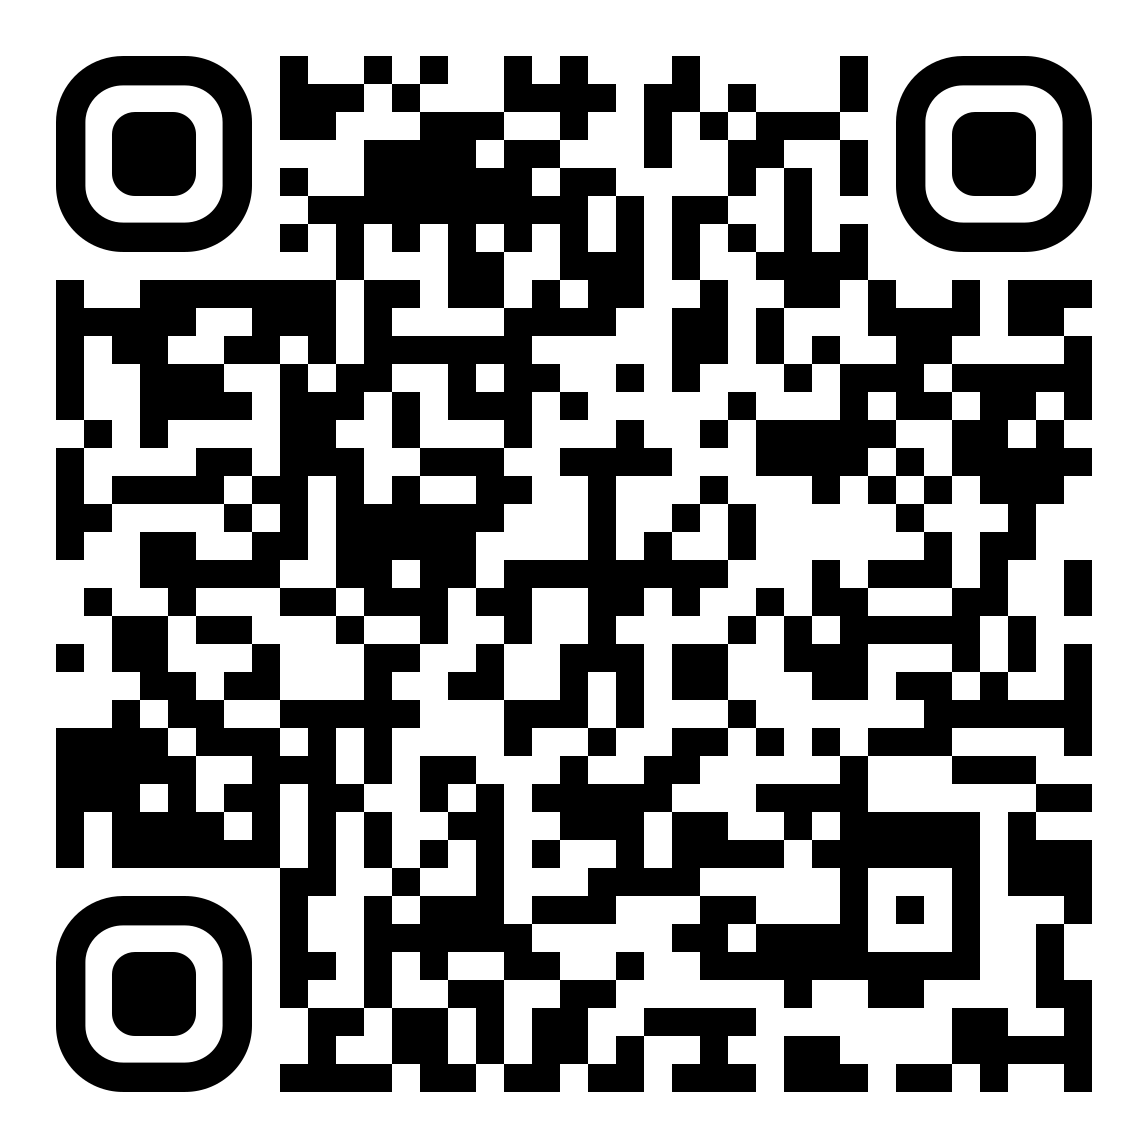
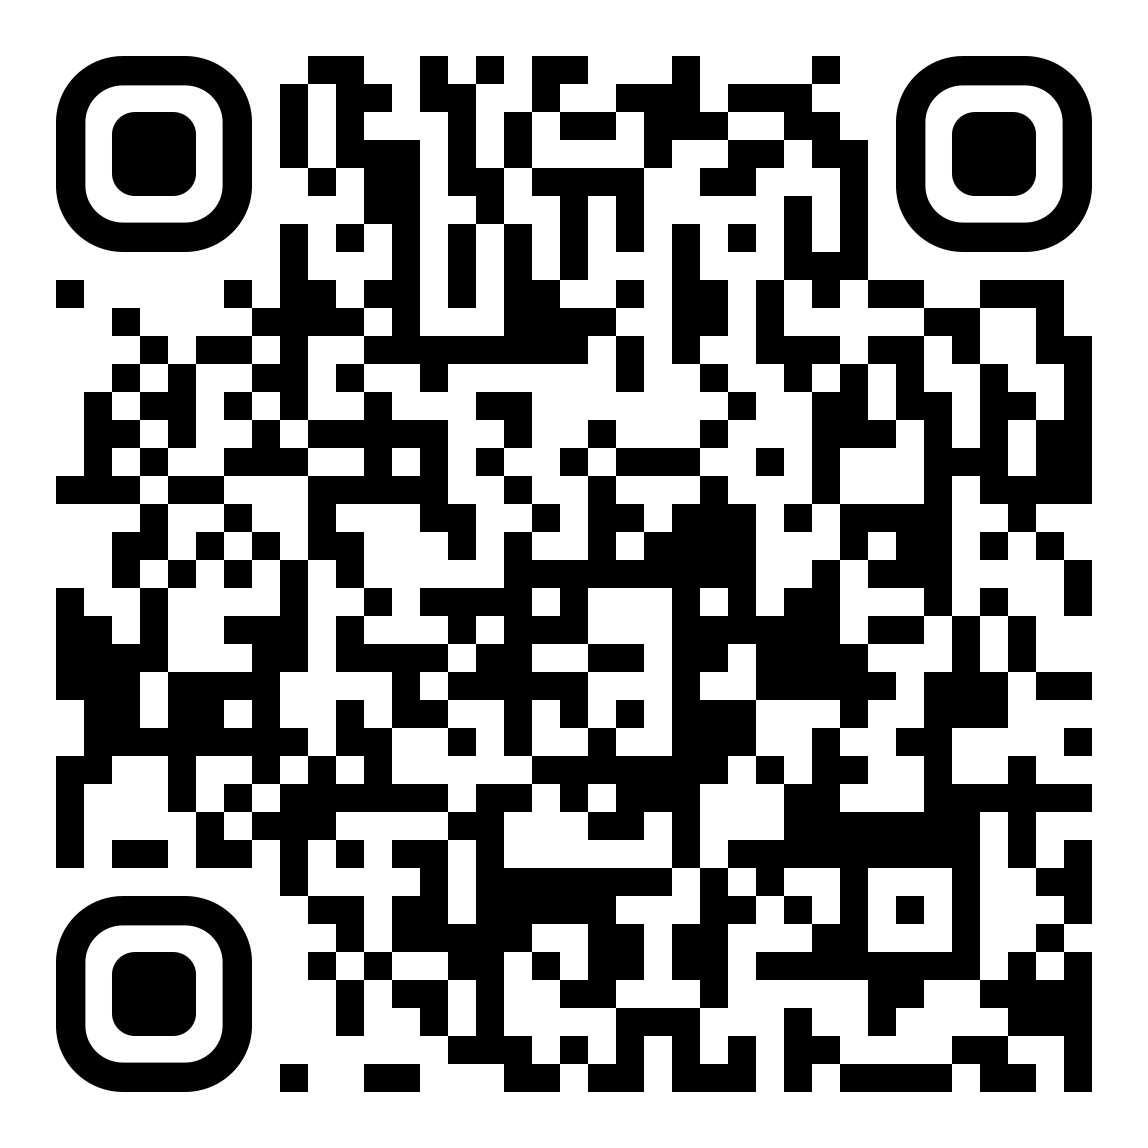
QR actualizado
Se actualizo el QR con un nuevo APK

diff --git a/index.html b/index.html
@@ -200,9 +200,7 @@
                         
                         <ul class="list-unstyled apps-lists">
                             <!--deplegar codigo QR en pc y botones en movil-->
-                            <li>
-                                <a href="#" class="btn"><span class="fa fa-apple mr-2" aria-hidden="true"></span>App Store</a>
-                            </li>
+                            
                             <li class="ml-2">
                                 <a href="#" class="btn"><span class="fa fa-android mr-2" aria-hidden="true"></span>Android</a>
                             </li>
